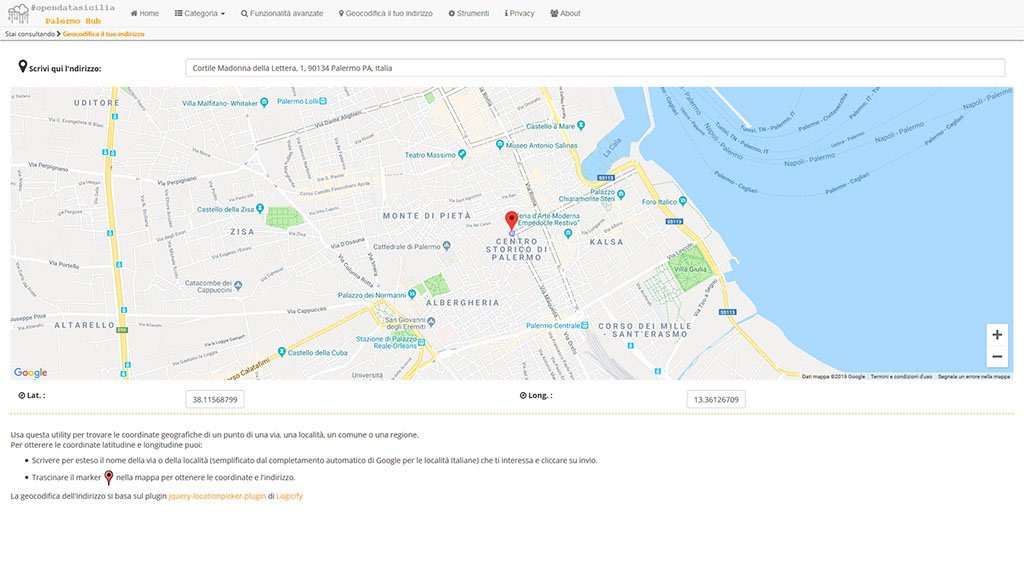
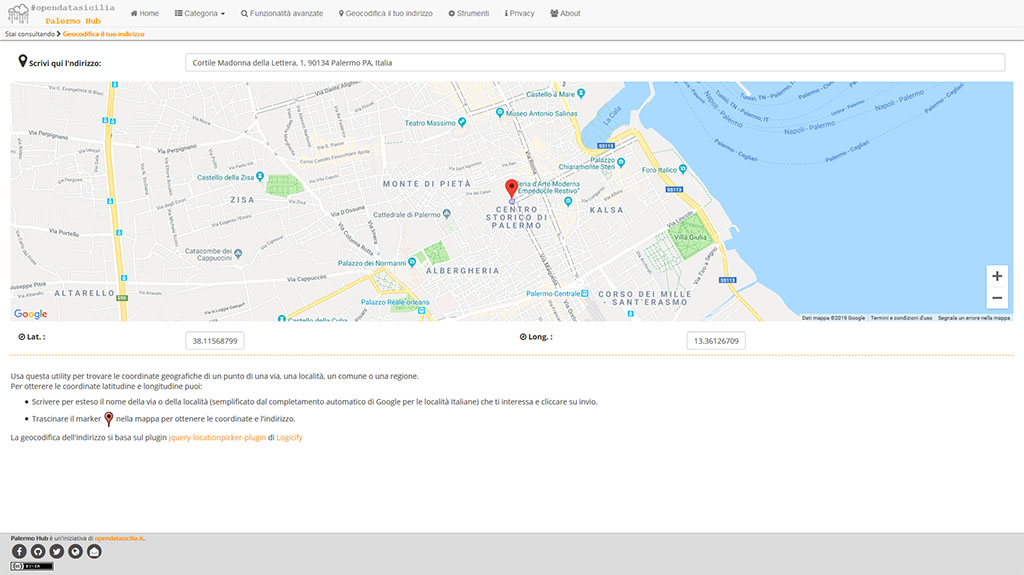
geolocalizza upgrade

diff --git a/geo_base.html b/geo_base.html
@@ -1,0 +1,125 @@
+<!doctype html>
+<html lang="it">
+    <head>
+<title>Palermo Hub - Informativa privacy estesa</title>        
+<meta charset="utf-8">
+        <meta http-equiv="X-UA-Compatible" content="IE=edge">
+	<meta name="description" content="Palermo hub db">       
+     <meta name="keywords" content="Open Data, Sicilia, PAI, Geologia, CTR, PRG, Variente Generale, Palermo">
+        <meta name="author" content="Giovan Battista Vitrano per OpenDataSicilia.it">
+        <meta http-equiv="content-language" content="IT">
+        <meta name="robots" content="noindex,nofollow">
+        <meta name="creation_Date" content="05/01/2018">
+        <meta name="viewport" content="initial-scale=1,user-scalable=no,maximum-scale=1,width=device-width">
+        <meta name="mobile-web-app-capable" content="yes">
+        <meta name="apple-mobile-web-app-capable" content="yes">
+        <link rel="shortcut icon" href="favicon.ico"/> 
+        <link rel="icon" href="favicon.png" type="image/png"/> 
+
+	<!-- CSS Palermo hub  -->
+<link href="lib/css/tooltips.css" rel="stylesheet" type="text/css">
+<link href="lib/js/dist/css/bootstrap.min.css" rel="stylesheet">
+<link href="lib/js/dist/css/style.css" rel="stylesheet">
+<link rel="stylesheet" href="https://maxcdn.bootstrapcdn.com/font-awesome/4.7.0/css/font-awesome.min.css">
+
+<link href="lib/js/top/jquerysctipttop.css" rel="stylesheet" type="text/css" />
+<link href="lib/js/top/backTop.css" rel="stylesheet" type="text/css" />
+ <!-- Global site tag (gtag.js) - Google Analytics -->
+<script async src="https://www.googletagmanager.com/gtag/js?id=UA-87653723-4"></script>
+<script>
+  window.dataLayer = window.dataLayer || [];
+  function gtag(){dataLayer.push(arguments);}
+  gtag('js', new Date());
+
+  gtag('config', 'UA-87653723-4');
+</script> 
+
+<style type="text/css">
+body {
+	/*background-color: #FFFFFF;*/
+	overflow-x:hidden;
+	}
+</style>
+
+ <!-- Script -->
+<script src="https://ajax.googleapis.com/ajax/libs/jquery/1.11.0/jquery.min.js"></script>
+</head>
+<body>
+<!-- <div class="container"> -->
+<iframe src="https://siciliahub.github.io/mappe/geolocation/geolocation_hub.html" frameborder="0" style="overflow:hidden;overflow-x:hidden;overflow-y:hidden;height:91.8%;width:100%;position:absolute;top:0px;left:0px;right:0px;bottom:0px" height="100%" width="100%"></iframe>
+
+<footer>
+<!-- tabella footer desktop/mobile -->
+<table width="100%" border="0" cellpadding="1" cellspacing="1" class="footermobile">
+    <tr>
+      <td>&nbsp;</td>
+      <td colspan="2" align="left" valign="middle"><span class="lorem"><strong>Palermo Hub</strong> è un'iniziativa di <a href="http://opendatasicilia.it" title="opendatasicilia.it" target="_parent"><strong>opendatasicilia.it</strong></a><strong>.</strong></span></td>
+      <td>&nbsp;</td>
+    </tr>
+    <tr>
+      <td width="1%">&nbsp;</td>
+      <td width="49%" align="right" valign="middle"><table width="10%" border="0" align="left" cellpadding="0" cellspacing="0" class="ods_social" >
+        <tbody>
+          <tr>
+            <td><a href="https://www.facebook.com/groups/opendatasicilia/" target="_blank" title="Facebook"><span class="fa-stack fa-lg"> <i class="fa fa-circle fa-stack-2x"></i> <i class="fa fa-facebook fa-stack-1x fa-inverse"></i></span></a></td>
+            <td>&nbsp;</td>
+            <td><a href="https://github.com/SiciliaHub" target="_blank" title="GitHub"><span class="fa-stack fa-lg"> <i class="fa fa-circle fa-stack-2x"></i> <i class="fa fa-github fa-stack-1x fa-inverse"></i></span></a></td>
+            <td>&nbsp;</td>
+            <td><a href="https://twitter.com/opendatasicilia" target="_blank" title="Twitter"> <span class="fa-stack fa-lg"> <i class="fa fa-circle fa-stack-2x"></i> <i class="fa fa-twitter fa-stack-1x fa-inverse"></i></span></a></td>
+            <td>&nbsp;</td>
+            <td><a href="http://opendatasicilia.it/" target="_blank" title="OpenDataSicilia.it"><span class="fa-stack fa-lg"> <i class="fa fa-circle fa-stack-2x"></i> <i class="fa fa-globe fa-stack-1x fa-inverse"></i></span></a></td>
+            <td>&nbsp;</td>
+            <td><a href="https://groups.google.com/d/forum/opendatasicilia" target="_blank" title="mailing list OpenDataSicilia.it"><span class="fa-stack fa-lg"> <i class="fa fa-circle fa-stack-2x"></i> <i class="fa fa-envelope-open fa-stack-1x fa-inverse"></i></span></a></td>
+            <td></td>
+            <td></td>
+            <td></td>
+          </tr>
+        </tbody>
+        <tr>
+          <td></td>
+        </tr>
+        <tr>
+          <td></td>
+        </tr>
+        <tr>
+          <td></td>
+        </tr>
+        <tr>
+          <td></td>
+        </tr>
+        <tr>
+          <td></td>
+        </tr>
+        <tr>
+          <td></td>
+        </tr>
+      </table></td>
+      <td width="49%" align="right" valign="bottom">&nbsp;</td>
+      <td width="1%">&nbsp;</td>
+    </tr>
+    <tr>
+      <td>&nbsp;</td>
+      <td align="left" valign="middle"><span class="lorem0"><a href="https://creativecommons.org/licenses/by-sa/4.0/deed.it" target="_blank" rel="license noopener"><img class="alignnone" style="border-width: 0;" title="Tutto il materiale rielaborato per Palermo Hub di OpenDataSicilia.it è distribuito con licenza Creative Commons Attribuzione - Condividi allo stesso modo 4.0 Internazionale (CC BY-SA 4.0) tranne diversa indicazione." src="https://i.creativecommons.org/l/by-sa/4.0/80x15.png" alt="Licenza Creative Commons" /></a></span></td>
+      <td align="right" valign="bottom">&nbsp;</td>
+      <td>&nbsp;</td>
+    </tr>
+    <tr>
+      <td colspan="4">&nbsp;</td>
+  </tr>
+  </table>
+  </footer>
+ <a id='backTop'>Back To Top</a>
+ <!-- script toptoback automatico mobile/desktop -->  
+ <script type="text/javascript" src="lib/js/top/jquery.backTop.min.js"></script>
+<script>
+            $(document).ready( function() {
+                $('#backTop').backTop({
+                    'position' : 400,
+                    'speed' : 300,
+                    'color' : 'red',
+					
+					                });
+            });
+        </script>
+</body>
+</html>

diff --git a/geolocalizza.html b/geolocalizza.html
@@ -61,13 +61,30 @@ body {
 <meta name="twitter:site" content="palermohub.opendatasicilia.it" />
 <meta name="twitter:url" content="https://palermohub.opendatasicilia.it">
 <!-- twitter --> 
-</head>
-<body>
+</head
+><body>
 <header>
   <div data-includeHTML="menu.html"></div>
-  <div id="breadcrumbs" class="breadcrumbs">Stai consultando&nbsp;<i class="fa fa-chevron-right" aria-hidden="true"></i>&nbsp;<a href="geolocalizza.html" title="Geocodifica il tuo indirizzo"><strong>Geocodifica il tuo indirizzo</strong></a></div>
+      <div id="breadcrumbs" class="breadcrumbs">Stai consultando&nbsp;<i class="fa fa-chevron-right" aria-hidden="true"></i>&nbsp;<a href="geolocalizza.html" title="Geocodifica il tuo indirizzo"><strong>Geocodifica il tuo indirizzo</strong></a></div>
+       <table width="90%" border="0" align="center" cellpadding="0" cellspacing="0">
+  <tbody>
+    <tr>
+      <td>
+        
+      </td></tr>
+    <tr>
+      <td>         <!-- <div data-includeHTML="database.html"></div> -->
+ <iframe src="geo_base.html" frameborder="0" style="overflow:hidden;overflow-x:hidden;overflow-y:hidden;height:100%;width:100%;position:absolute;top:65px;left:0px;right:0px;bottom:0px" height="100%" width="100%"></iframe></td>
+    </tr>
+    <tr>
+      <td></td>
+    </tr>
+    <tr>
+      <td align="center" valign="middle"></td>
+    </tr>
+  </tbody>
+</table>
 </header>
- <iframe src="https://siciliahub.github.io/mappe/geolocation/geolocation_hub.html" frameborder="0" style="overflow:hidden;overflow-x:hidden;overflow-y:hidden;height:91.8%;width:100%;position:absolute;top:75px;left:0px;right:0px;bottom:0px" height="100%" width="100%"></iframe>
 
 <script>
     $(document).ready(function () {
